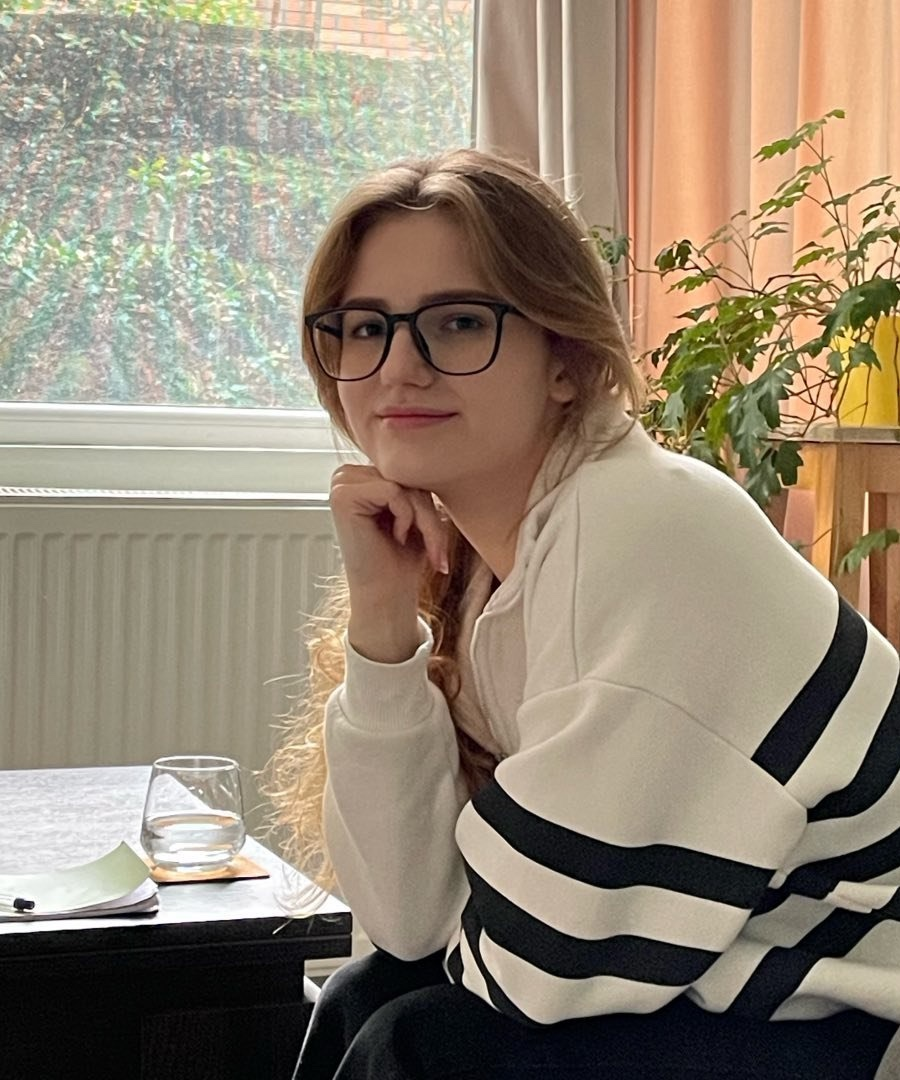
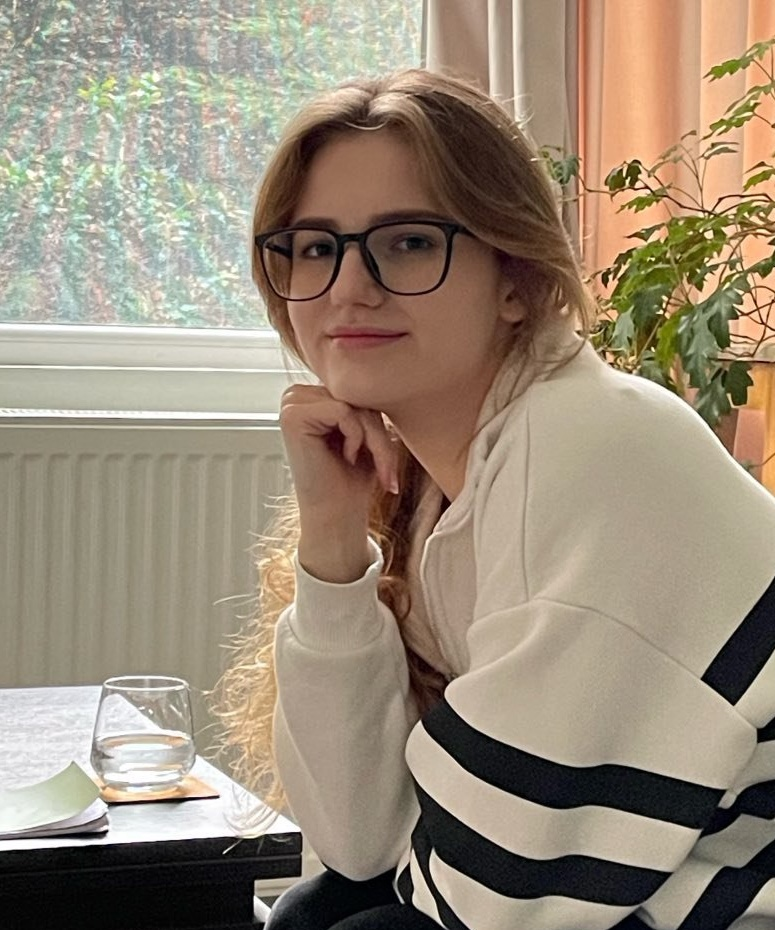
Кадрировать фото плотнее, меньше окна

diff --git a/index.html b/index.html
@@ -41,7 +41,7 @@
       <p class="hero-meta">Онлайн по видеосвязи, из любой страны. Сессия длится 55&nbsp;минут</p>
     </div>
     <figure class="hero-photo">
-      <img src="assets/anastasia-hero.jpg" alt="Анастасия Мирошниченко в своём кабинете у окна" width="900" height="1080">
+      <img src="assets/anastasia-hero.jpg" alt="Анастасия Мирошниченко в своём кабинете у окна" width="775" height="930">
     </figure>
   </section>
 
